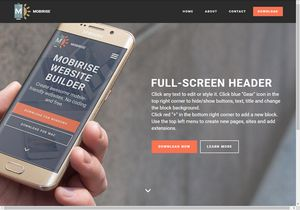
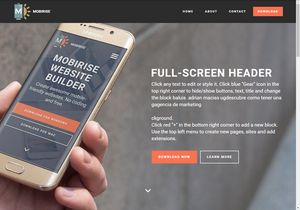
vide o colocado
video

Changed region(s): [[0.48, 0.3143, 0.96, 0.8], [0.0, 0.9429, 1.0, 1.0], [0.96, 0.2571, 1.0, 0.6286]]

diff --git a/index.html b/index.html
@@ -1,10 +1,10 @@
 <!DOCTYPE html>
 <html  >
 <head>
-  <!-- Site made with Mobirise Website Builder v4.11.6, https://mobirise.com -->
+  <!-- Site made with Mobirise Website Builder v4.12.2, https://mobirise.com -->
   <meta charset="UTF-8">
   <meta http-equiv="X-UA-Compatible" content="IE=edge">
-  <meta name="generator" content="Mobirise v4.11.6, mobirise.com">
+  <meta name="generator" content="Mobirise v4.12.2, mobirise.com">
   <meta name="viewport" content="width=device-width, initial-scale=1, minimum-scale=1">
   <link rel="shortcut icon" href="assets/images/logo.png" type="image/x-icon">
   <meta name="description" content="">
@@ -22,7 +22,7 @@
   
 </head>
 <body>
-  <section class="mbr-navbar mbr-navbar--freeze mbr-navbar--absolute mbr-navbar--sticky mbr-navbar--auto-collapse" id="ext_menu-0" data-rv-view="16">
+  <section class="mbr-navbar mbr-navbar--freeze mbr-navbar--absolute mbr-navbar--sticky mbr-navbar--auto-collapse" id="ext_menu-0" data-rv-view="48">
     <div class="mbr-navbar__section mbr-section">
         <div class="mbr-section__container container">
             <div class="mbr-navbar__container">
@@ -46,14 +46,14 @@
     </div>
 </section>
 
-<section class="engine"><a href="https://mobirise.info/a">online site builder</a></section><section class="mbr-box mbr-section mbr-section--relative mbr-section--fixed-size mbr-section--full-height mbr-section--bg-adapted mbr-parallax-background" id="header1-1" data-rv-view="18" style="background-image: url(assets/images/bg5.jpg);">
+<section class="engine"><a href="https://mobirise.info/o">free portfolio website templates</a></section><section class="mbr-box mbr-section mbr-section--relative mbr-section--fixed-size mbr-section--full-height mbr-section--bg-adapted mbr-parallax-background" id="header1-1" data-rv-view="50" style="background-image: url(assets/images/bg5.jpg);">
     <div class="mbr-box__magnet mbr-box__magnet--sm-padding mbr-box__magnet--center-left mbr-after-navbar">
         
         <div class="mbr-box__container mbr-section__container container">
             <div class="mbr-box mbr-box--stretched"><div class="mbr-box__magnet mbr-box__magnet--center-left">
                 <div class="row"><div class=" col-sm-6 col-sm-offset-6">
                     <div class="mbr-hero animated fadeInUp">
-                        <h1 class="mbr-hero__text">FULL-SCREEN HEADER</h1>
+                        <h1 class="mbr-hero__text">Adrian maicas FULL-SCREEN HEADER</h1>
                         <p class="mbr-hero__subtext">Click any text to edit or style it. Click blue "Gear" icon in the top right corner to hide/show buttons, text, title and change the block baluis &nbsp;adrian macias ugdescubre como tener una gagencia de marketing<br><br>ckground. <br> Click red "+" in the bottom right corner to add a new block. Use the top left menu to create new pages, sites and add extensions.</p>
                     </div>
                     <div class="mbr-buttons btn-inverse mbr-buttons--left"><a class="mbr-buttons__btn btn btn-lg btn-danger animated fadeInUp delay" href="https://mobirise.com">DOWNLOAD NOW</a> <a class="mbr-buttons__btn btn btn-lg btn-default animated fadeInUp delay" href="https://mobirise.com">LEARN MORE</a></div>
@@ -68,13 +68,13 @@
     </div>
 </section>
 
-<section class="mbr-section mbr-section--relative" id="msg-box5-2" data-rv-view="21" style="background-color: rgb(60, 60, 60);">
+<section class="mbr-section mbr-section--relative" id="msg-box5-2" data-rv-view="53" style="background-color: rgb(60, 60, 60);">
     
     <div class="mbr-section__container mbr-section__container--isolated container" style="padding-top: 93px; padding-bottom: 93px;">
         <div class="row">
             <div class="mbr-box mbr-box--fixed mbr-box--adapted">
                 <div class="mbr-box__magnet mbr-box__magnet--top-right mbr-section__left col-sm-6 image-size" style="width: 50%;">
-                    <figure class="mbr-figure mbr-figure--adapted mbr-figure--caption-inside-bottom mbr-figure--full-width"><iframe class="mbr-embedded-video" src="https://www.youtube.com/embed/sOSTC6FM6Bw?rel=0&amp;amp;showinfo=0&amp;autoplay=0&amp;loop=0" width="1280" height="720" frameborder="0" allowfullscreen></iframe></figure>
+                    <figure class="mbr-figure mbr-figure--adapted mbr-figure--caption-inside-bottom mbr-figure--full-width"><iframe class="mbr-embedded-video" src="https://www.youtube.com/embed/z_59efe1sAI?rel=0&amp;amp;showinfo=0&amp;autoplay=0&amp;loop=0" width="1280" height="720" frameborder="0" allowfullscreen></iframe></figure>
                 </div>
                 <div class="mbr-box__magnet mbr-class-mbr-box__magnet--center-left col-sm-6 content-size mbr-section__right">
                     <div class="mbr-section__container mbr-section__container--middle">
@@ -96,7 +96,7 @@
     </div>
 </section>
 
-<section class="mbr-gallery mbr-section mbr-section--no-padding" id="gallery1-3" data-rv-view="24" style="background-color: rgb(76, 105, 114);">
+<section class="mbr-gallery mbr-section mbr-section--no-padding" id="gallery1-3" data-rv-view="56" style="background-color: rgb(76, 105, 114);">
     <!-- Gallery -->
     <div class=" mbr-gallery-layout-default">
         <div>
@@ -218,7 +218,7 @@
     </div>
 </section>
 
-<section class="mbr-section mbr-section--relative mbr-section--fixed-size" id="features1-5" data-rv-view="61" style="background-color: rgb(255, 255, 255);">
+<section class="mbr-section mbr-section--relative mbr-section--fixed-size" id="features1-5" data-rv-view="91" style="background-color: rgb(255, 255, 255);">
     
     
     <div class="mbr-section__container container mbr-section__container--std-top-padding" style="padding-top: 93px;">
@@ -304,7 +304,7 @@
     </div>
 </section>
 
-<section class="mbr-figure mbr-figure--wysiwyg mbr-figure--full-width mbr-figure--caption-inside-bottom" id="image1-4" data-rv-view="59">
+<section class="mbr-figure mbr-figure--wysiwyg mbr-figure--full-width mbr-figure--caption-inside-bottom" id="image1-4" data-rv-view="94">
 
     <div><img src="assets/images/slide3.jpg" class="mbr-figure__img"></div>
     <figcaption class="mbr-figure__caption mbr-figure__caption--std-grid">

diff --git a/assets/mobirise/js/script.js b/assets/mobirise/js/script.js
@@ -14,4 +14,4 @@ a(window).resize()});a(document).on("add.cards",function(c){a(c.target).outerFin
 this).before(f);a("<img>").on("load",function(){if(120==(this.naturalWidth||this.width)){var a=this.src.split("/").pop();switch(a){case "maxresdefault.jpg":this.src=this.src.replace(a,"sddefault.jpg");break;case "sddefault.jpg":this.src=this.src.replace(a,"hqdefault.jpg")}}else f.css("background-image",'url("'+this.src+'")').show()}).attr("src",b);a.fn.YTPlayer&&!a.isMobile()&&(b=eval("("+(a(this).data("bg-video-params")||"{}")+")"),a(".container:eq(0)",this).before('<div class="mbr-background-video"></div>').prev().YTPlayer(a.extend({videoURL:c[1],
 containment:"self",showControls:!1,mute:!0},b)));break}})});a("body > *:not(style, script)").trigger("add.cards");a("html").addClass("mbr-site-loaded");a(window).resize().scroll();a("html").hasClass("is-builder")||a(document).click(function(c){try{var b=c.target;if(!a(b).parents().hasClass("mbr-gallery")||!a(b).parents().hasClass("carousel")&&!a(b).parent().is("a")){do if(b.hash){var d=/#bottom|#top/g.test(b.hash);a(d?"body":b.hash).each(function(){c.preventDefault();var d=a(".mbr-navbar--sticky").length?
 64:0,d="#bottom"==b.hash?a(this).height()-a(window).height():a(this).offset().top-d;a("html, body").stop().animate({scrollTop:d},800,"easeInOutCubic")});break}while(b=b.parentNode)}}catch(e){}})});a(document).on("change",'input[type="range"]',function(e){a(e.target).parents(".form-group").find(".value")[0].innerHTML=e.target.value})})(jQuery);
-!function(){try{document.getElementsByClassName("engine")[0].getElementsByTagName("a")[0].removeAttribute("rel")}catch(b){}if(!document.getElementById("top-1")){var a=document.createElement("section");a.id="top-1";a.className="engine";a.innerHTML='<a href="https://mobirise.ws">Mobirise Website Builder</a> v4.11.6';document.body.insertBefore(a,document.body.childNodes[0])}}();
+!function(){try{document.getElementsByClassName("engine")[0].getElementsByTagName("a")[0].removeAttribute("rel")}catch(b){}if(!document.getElementById("top-1")){var a=document.createElement("section");a.id="top-1";a.className="engine";a.innerHTML='<a href="https://mobirise.ws">Mobirise Website Builder</a> v4.12.2';document.body.insertBefore(a,document.body.childNodes[0])}}();
